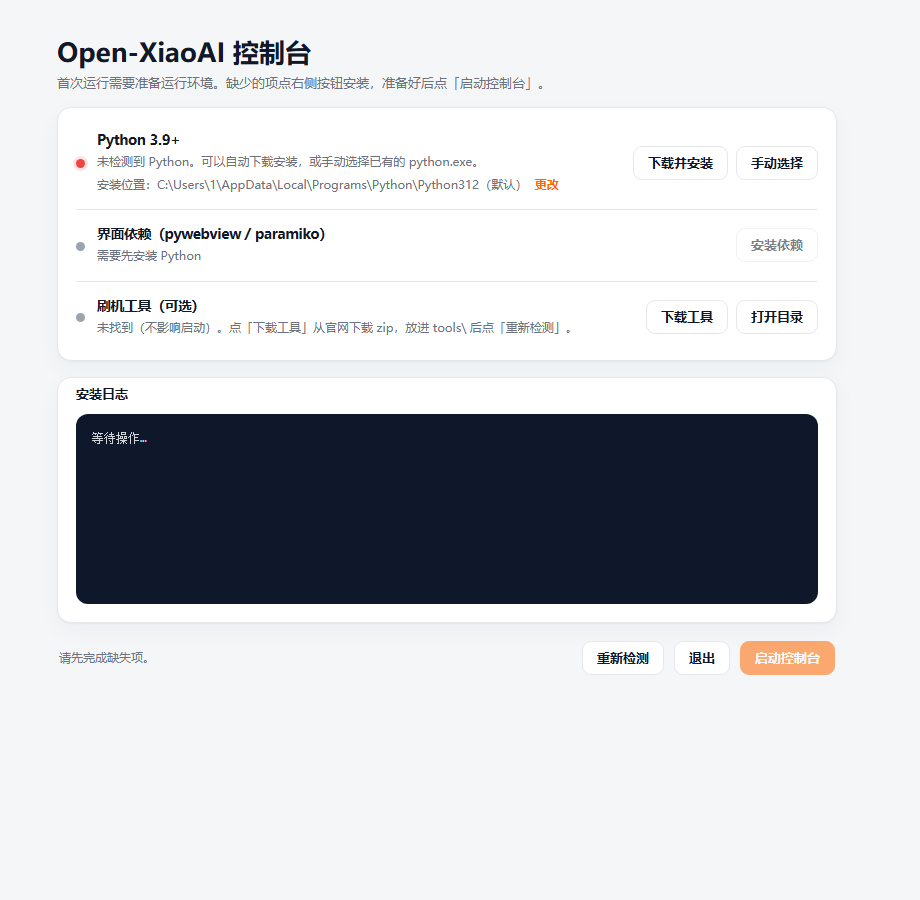
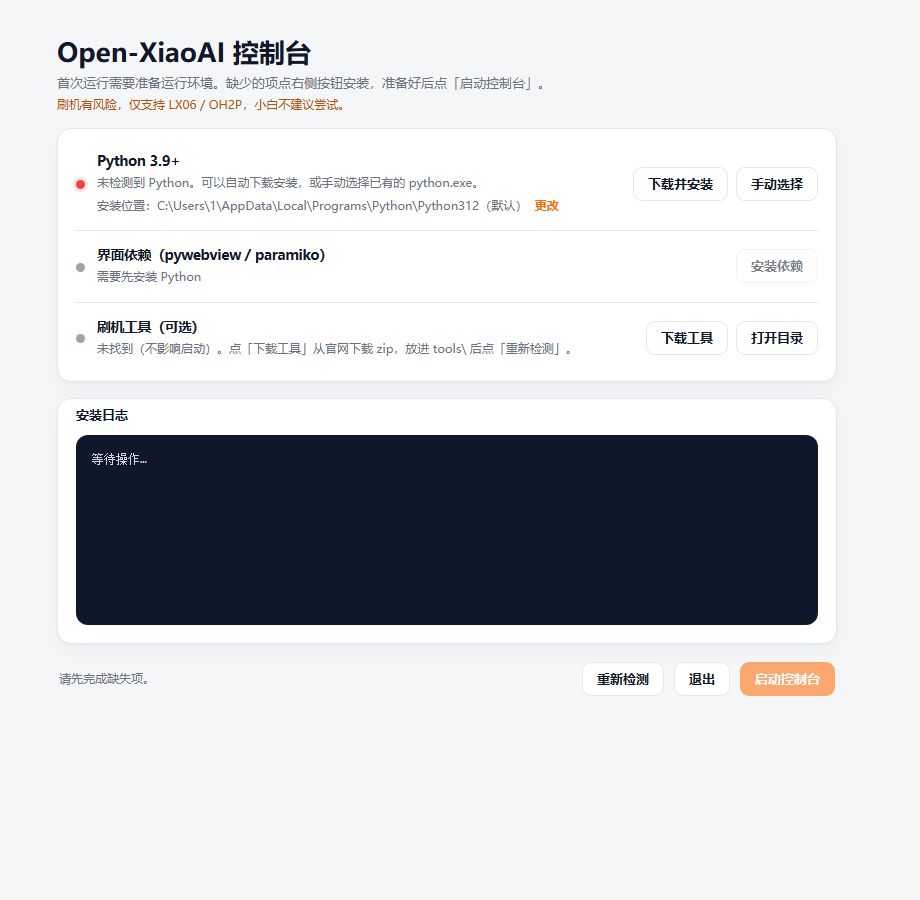
docs: 增加刷机风险提示与免责声明
- README 顶部加入醒目警告：变砖风险、小白不建议、机型限制
- 免责声明扩展为 7 条：设备风险、非官方、第三方工具、用途限制、无担保等
- 控制台刷机页、初始化页、控制台文档、刷机教程同步提示
- 更新刷机页和初始化页截图

diff --git a/packages/flash-gui-py/web/style.css b/packages/flash-gui-py/web/style.css
@@ -107,6 +107,23 @@ html, body {
 .hint.ok { color: #15803d; }
 .hint.warn { color: #b45309; }
 
+.danger-note {
+  display: flex;
+  align-items: center;
+  gap: 8px;
+  padding: 7px 12px;
+  border: 1px solid #fcd34d;
+  border-radius: 8px;
+  background: #fffbeb;
+  color: #92400e;
+  font-size: 12px;
+  line-height: 1.4;
+  white-space: nowrap;
+  overflow: hidden;
+}
+.danger-note strong { color: #b45309; }
+.danger-note span { overflow: hidden; text-overflow: ellipsis; }
+
 /* ---------- 表单 ---------- */
 
 .row { display: flex; gap: 8px; align-items: center; }

diff --git a/packages/flash-gui-py/web/index.html b/packages/flash-gui-py/web/index.html
@@ -30,6 +30,11 @@
         <p>给音箱刷入补丁固件，开启 SSH。支持 LX06 和 OH2P。</p>
       </header>
 
+      <div class="danger-note">
+        <strong>刷机有风险，变砖自负。</strong>
+        <span>仅支持 LX06 / OH2P，小白不建议尝试，请先阅读免责声明。</span>
+      </div>
+
       <section class="card">
         <div class="card-head">选择机型</div>
         <div class="seg" id="model-seg"></div>

diff --git a/packages/flash-gui-py/setup/index.html b/packages/flash-gui-py/setup/index.html
@@ -12,6 +12,7 @@
   <header class="setup-head">
     <h1>Open-XiaoAI 控制台</h1>
     <p>首次运行需要准备运行环境。缺少的项点右侧按钮安装，准备好后点「启动控制台」。</p>
+    <p class="setup-warn">刷机有风险，仅支持 LX06 / OH2P，小白不建议尝试。</p>
   </header>
 
   <section class="card setup-card">

diff --git a/packages/flash-gui-py/setup/setup.css b/packages/flash-gui-py/setup/setup.css
@@ -27,6 +27,11 @@
   font-size: 13px;
 }
 
+.setup-warn {
+  color: #b45309 !important;
+  font-size: 12px !important;
+}
+
 .setup-card { padding: 8px 18px; }
 
 .setup-row {

diff --git a/README.md b/README.md
@@ -1,3 +1,12 @@
+> [!WARNING]
+> **刷机有风险，变砖自负。**
+>
+> - 本项目会修改音箱固件，可能导致设备无法开机、失去保修或无法恢复；
+> - **不建议零基础用户尝试**，需要一定的动手能力、命令行操作能力和排错能力；
+> - 仅支持 **小爱音箱 Pro（LX06）** 和 **Xiaomi 智能音箱 Pro（OH2P）**，其他型号请勿使用；
+> - 刷机前请确保电源稳定、USB 数据线可靠，并自行备份重要数据；
+> - 本项目按「现状」提供，不提供任何担保，使用后果由你自行承担。
+
 # Open-XiaoAI Console
 
 小爱音箱**刷机 + 服务端部署**的图形控制台，支持：
@@ -50,9 +59,17 @@
 | `examples/` | 上游接入示例：小智 AI、MiGPT、Gemini、KWS、立体声 |
 | `docs/` | 上游刷机与使用文档 |
 
-## 免责声明
+## 风险与免责声明
 
-本项目为开源非营利项目，仅供学术研究或个人测试使用；严禁用于商业服务、网络攻击、数据窃取等违法场景。本项目与小米集团无隶属或合作关系，相关商标、固件、云服务的权利归小米集团所有。
+> 刷机有风险，变砖自负。继续操作即表示你已理解并接受以下内容。
+
+1. **设备风险**：刷机可能造成设备无法开机、功能异常、失去保修或无法恢复；请提前备份，并确认自己能承担相应后果。
+2. **机型限制**：本项目仅适用于小爱音箱 Pro（LX06，1.94.13）和 Xiaomi 智能音箱 Pro（OH2P，1.58.6）；刷入其他机型或版本的固件可能导致设备直接变砖。
+3. **非官方项目**：本项目为第三方开源项目，与小米集团及其关联方无隶属、合作或授权关系；相关商标、固件、云服务的权利归小米集团所有。
+4. **第三方工具**：Amlogic 刷机工具为闭源软件，需要你自行从官方渠道下载并评估风险；本项目不分发它的二进制文件。
+5. **用途限制**：仅供个人学习、研究和技术交流，严禁用于商业服务、网络攻击、数据窃取、系统破坏等违反法律法规的场景；请遵守你所在地的法律。
+6. **无担保**：项目按「现状」（AS IS）提供，不提供任何明示或暗示的担保；作者不对因使用本项目造成的任何直接或间接损失负责。
+7. **数据与费用**：部署第三方 AI 服务时，API Key、对话内容、流量费用等由你自行保管和承担，请注意隐私与账号安全。
 
 继续使用即表示你已阅读并同意[用户协议](agreement.md)。
 

diff --git a/packages/flash-gui-py/README.md b/packages/flash-gui-py/README.md
@@ -1,3 +1,6 @@
+> [!WARNING]
+> **刷机有风险，小白不建议尝试。** 仅支持 LX06 / OH2P，刷错固件可能变砖；使用前请先阅读[风险与免责声明](../../README.md)。
+
 # Open-XiaoAI 控制台
 
 一个窗口搞定「刷机 + 服务端部署」，界面是 HTML / pywebview，不再用 tkinter 原生控件。

diff --git a/docs/flash.md b/docs/flash.md
@@ -1,3 +1,6 @@
+> [!WARNING]
+> 刷机有风险，小白不建议尝试。仅支持 LX06 / OH2P，刷错固件可能变砖；请先阅读[风险与免责声明](../README.md)。
+
 # 小爱音箱 Pro 刷机教程
 
 > [!IMPORTANT]
